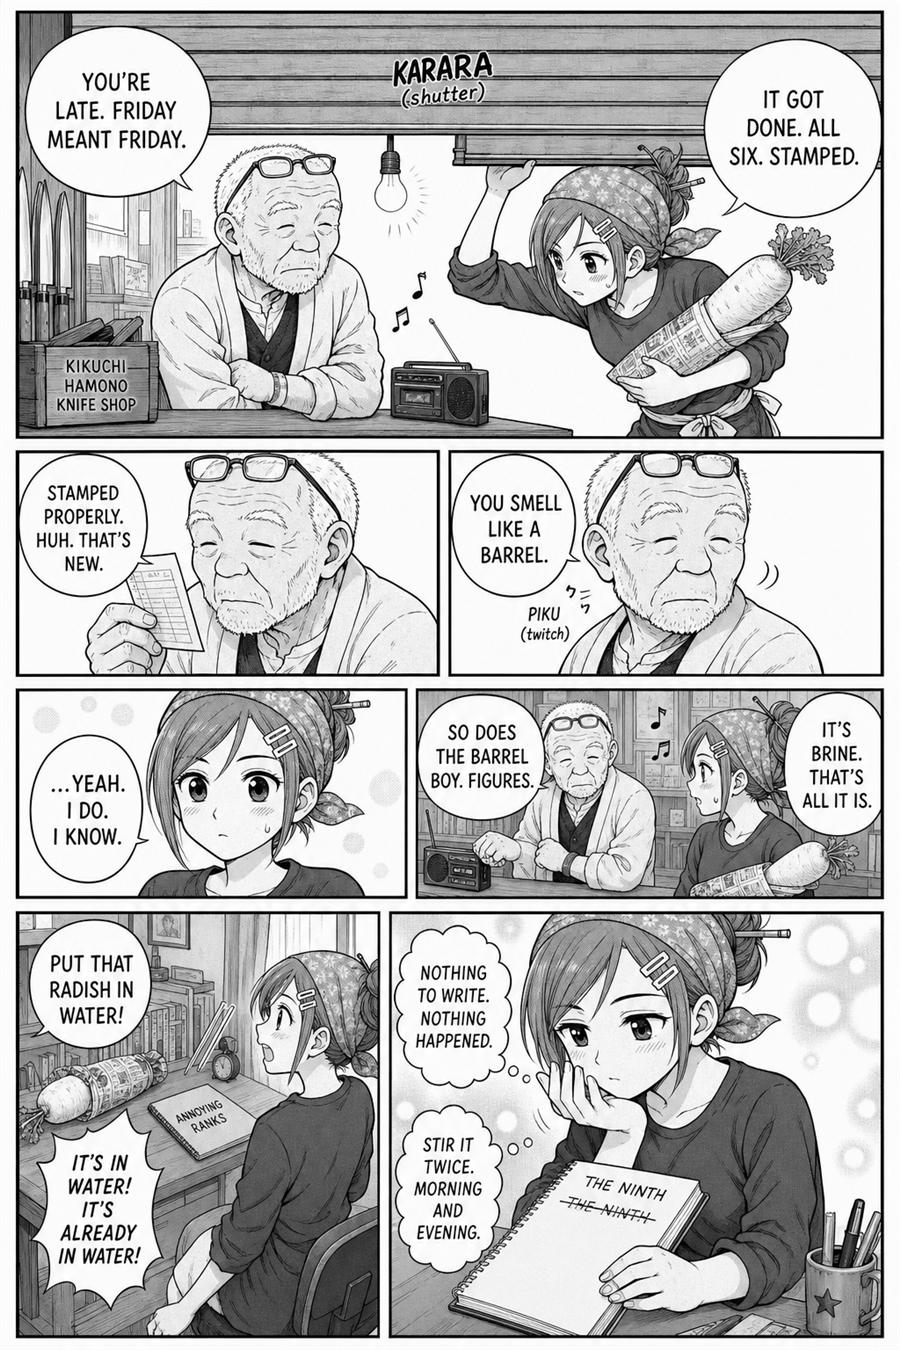
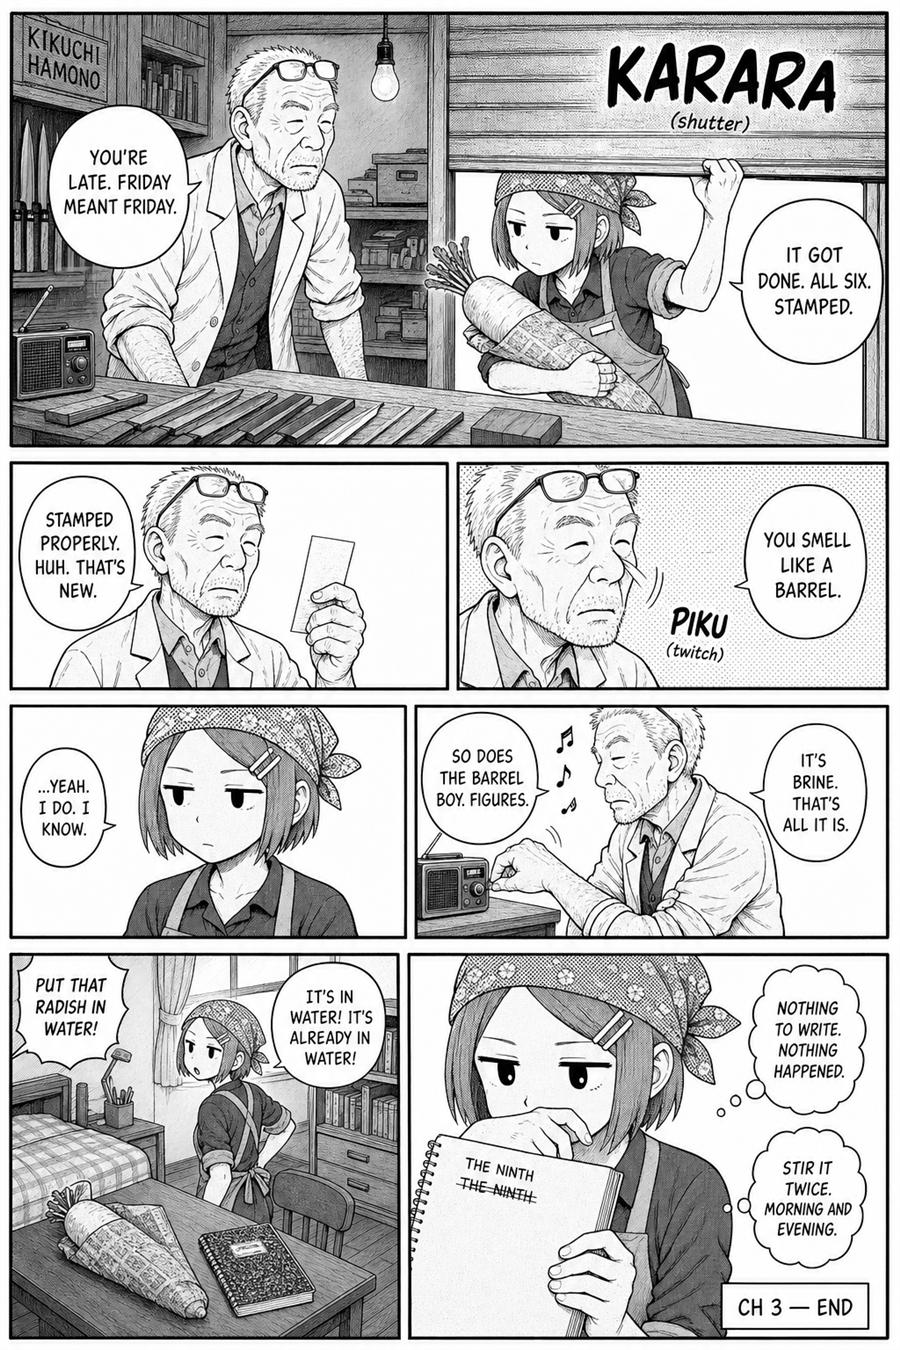
ch03: NUKADOKO (27 pages)

diff --git a/production/ch03/breakdown.md b/production/ch03/breakdown.md
@@ -598,6 +598,7 @@ PANEL 6 [small]: Upstairs. Her room. The wrapped daikon set down on the desk nex
 PANEL 7 [tall]: The notebook open at the page for THE NINTH — written once, scratched out once, nothing under it. She looks at it. She writes nothing. She closes it and smells her hands again instead.
 - (Sayo, thought): "NOTHING TO WRITE. NOTHING HAPPENED."
 - (Sayo, thought): "STIR IT TWICE. MORNING AND EVENING."
+- CAPTION: CH 3 — END
 
 ## COVER NOTES
 Split down the middle, one continuous line through both figures. Left: Sayo public — sleeve down over the knuckles, hair down, two highlights, the folded delivery slip held out at arm's length like a receipt. Right: Kaoru private — cat-print apron, one strap twisted, collar hook undone, cowlick doubled, both arms grey with bran to the wrist, the wooden paddle held out toward her across the split. The split line passes through the paddle. Late-winter arcade greys, ~40% white, a single labelled crock lid in the lower foreground reading FRIDAY. GOOD.

diff --git a/engine/chapter-engine.md b/engine/chapter-engine.md
@@ -19,6 +19,7 @@ Its output is one file: `production/chNN/breakdown.md`.
 - **Every chapter contains a domestic beat**: food, laundry, a bandage, a bus ride, dishes, a bento, an umbrella. It gets real page time, not a cutaway.
 - Fights and magic are seasoning: at most one short System/duel/Tower scene per chapter, and it must pay a character beat. The quiet is the meal.
 - **THERE ARE NO SILENT PAGES.** Every page carries dialogue, page 1 included. A quiet moment gets three bubbles, never zero. Do not designate any page as "the silent page."
+- **The final page's last panel carries `- CAPTION: CH N — END`** (small box). The linter enforces it.
 
 ## Breakdown grammar (strict — scripts parse this)
 
